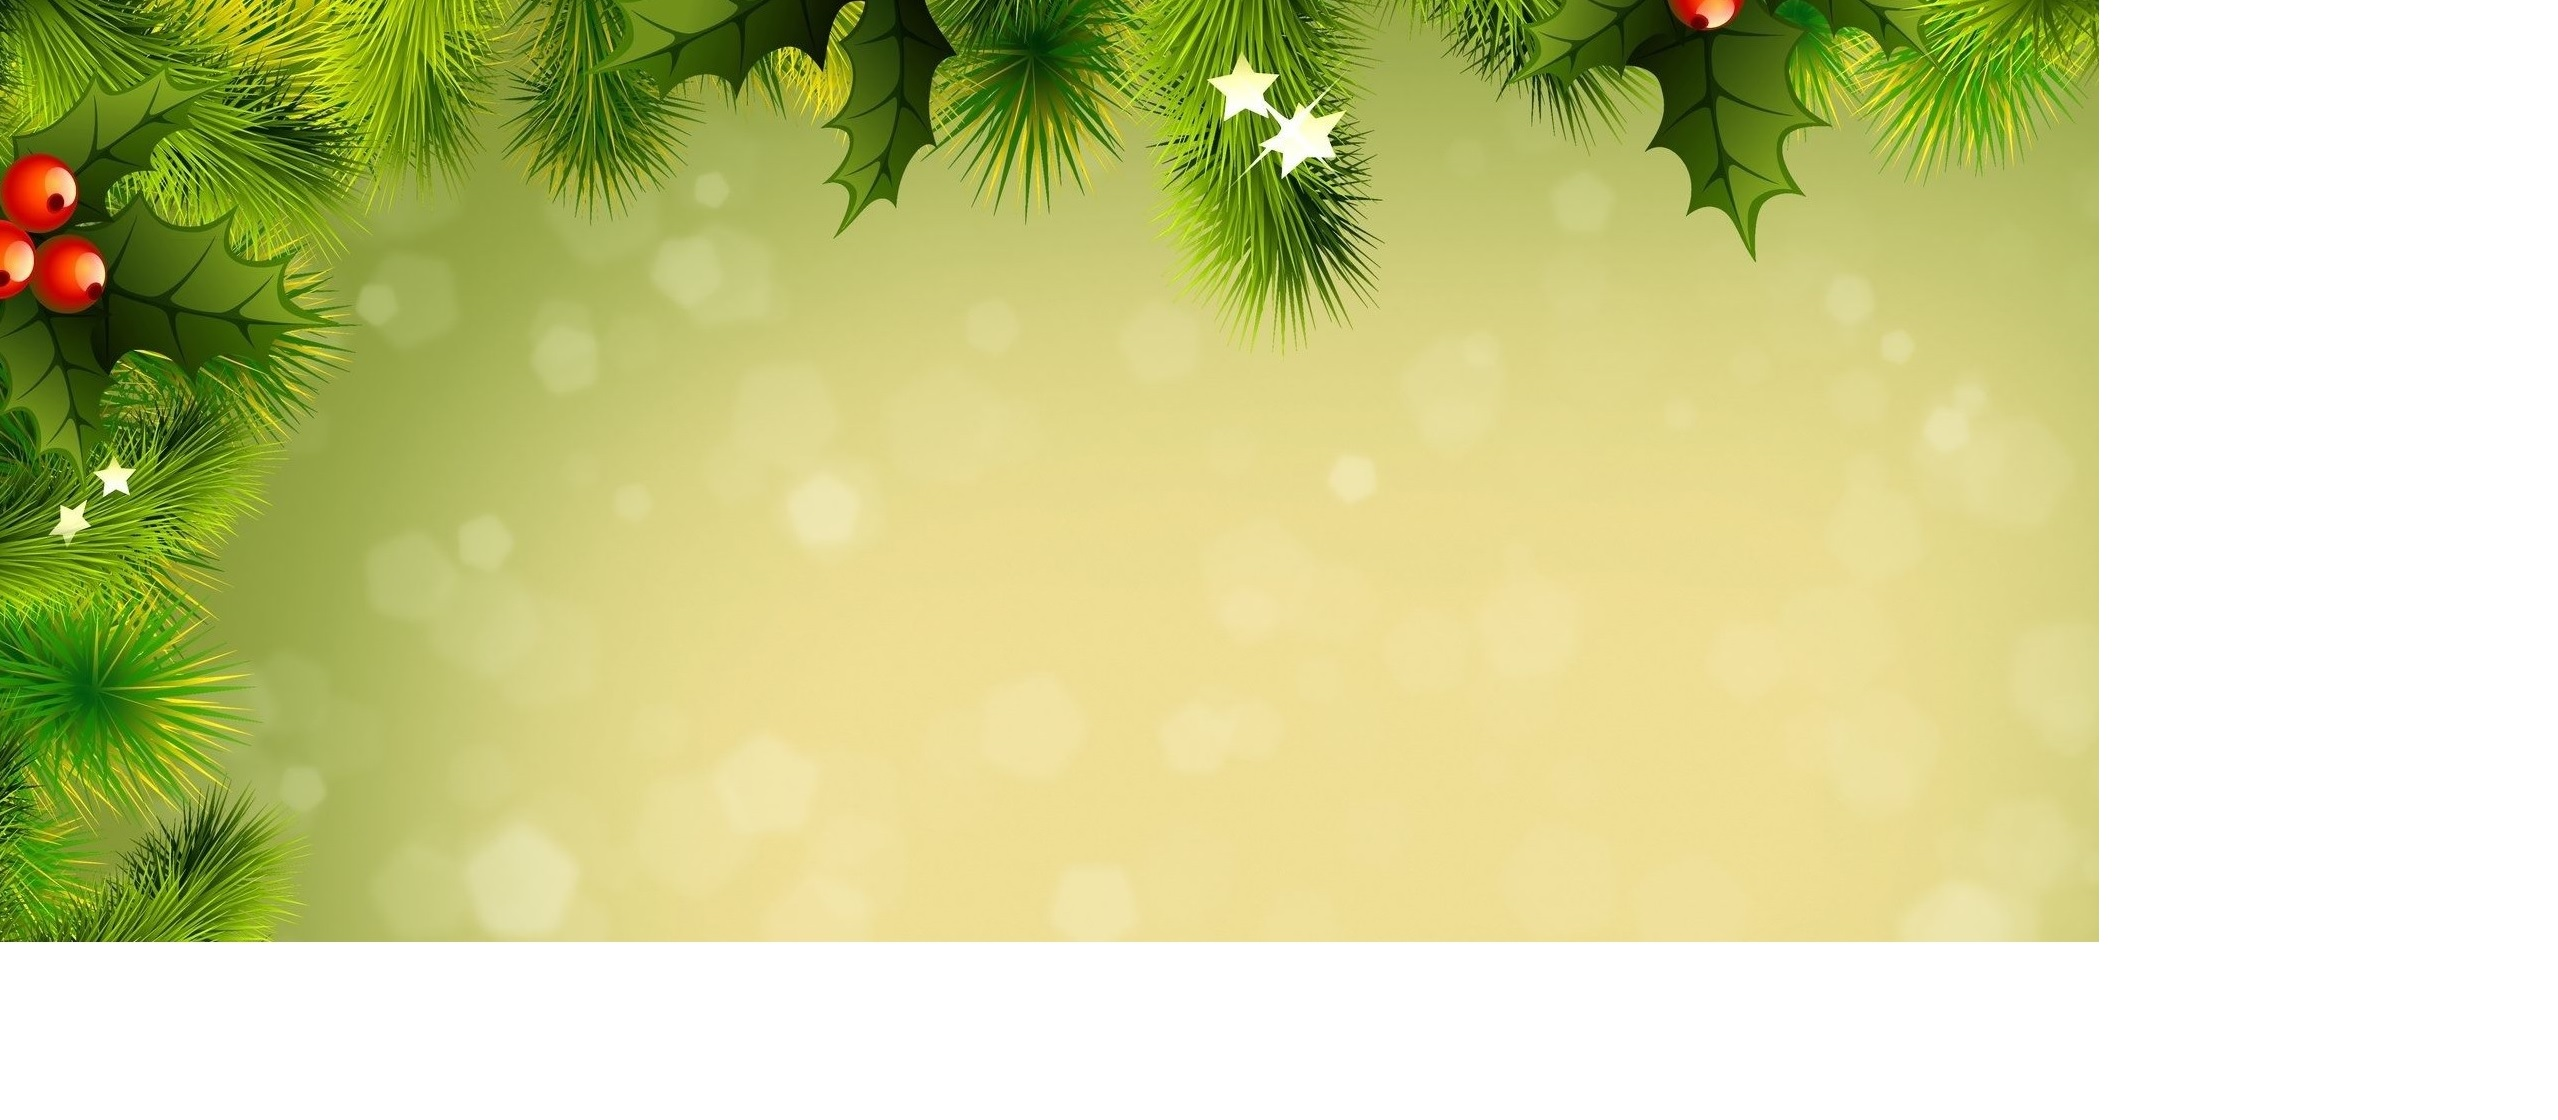
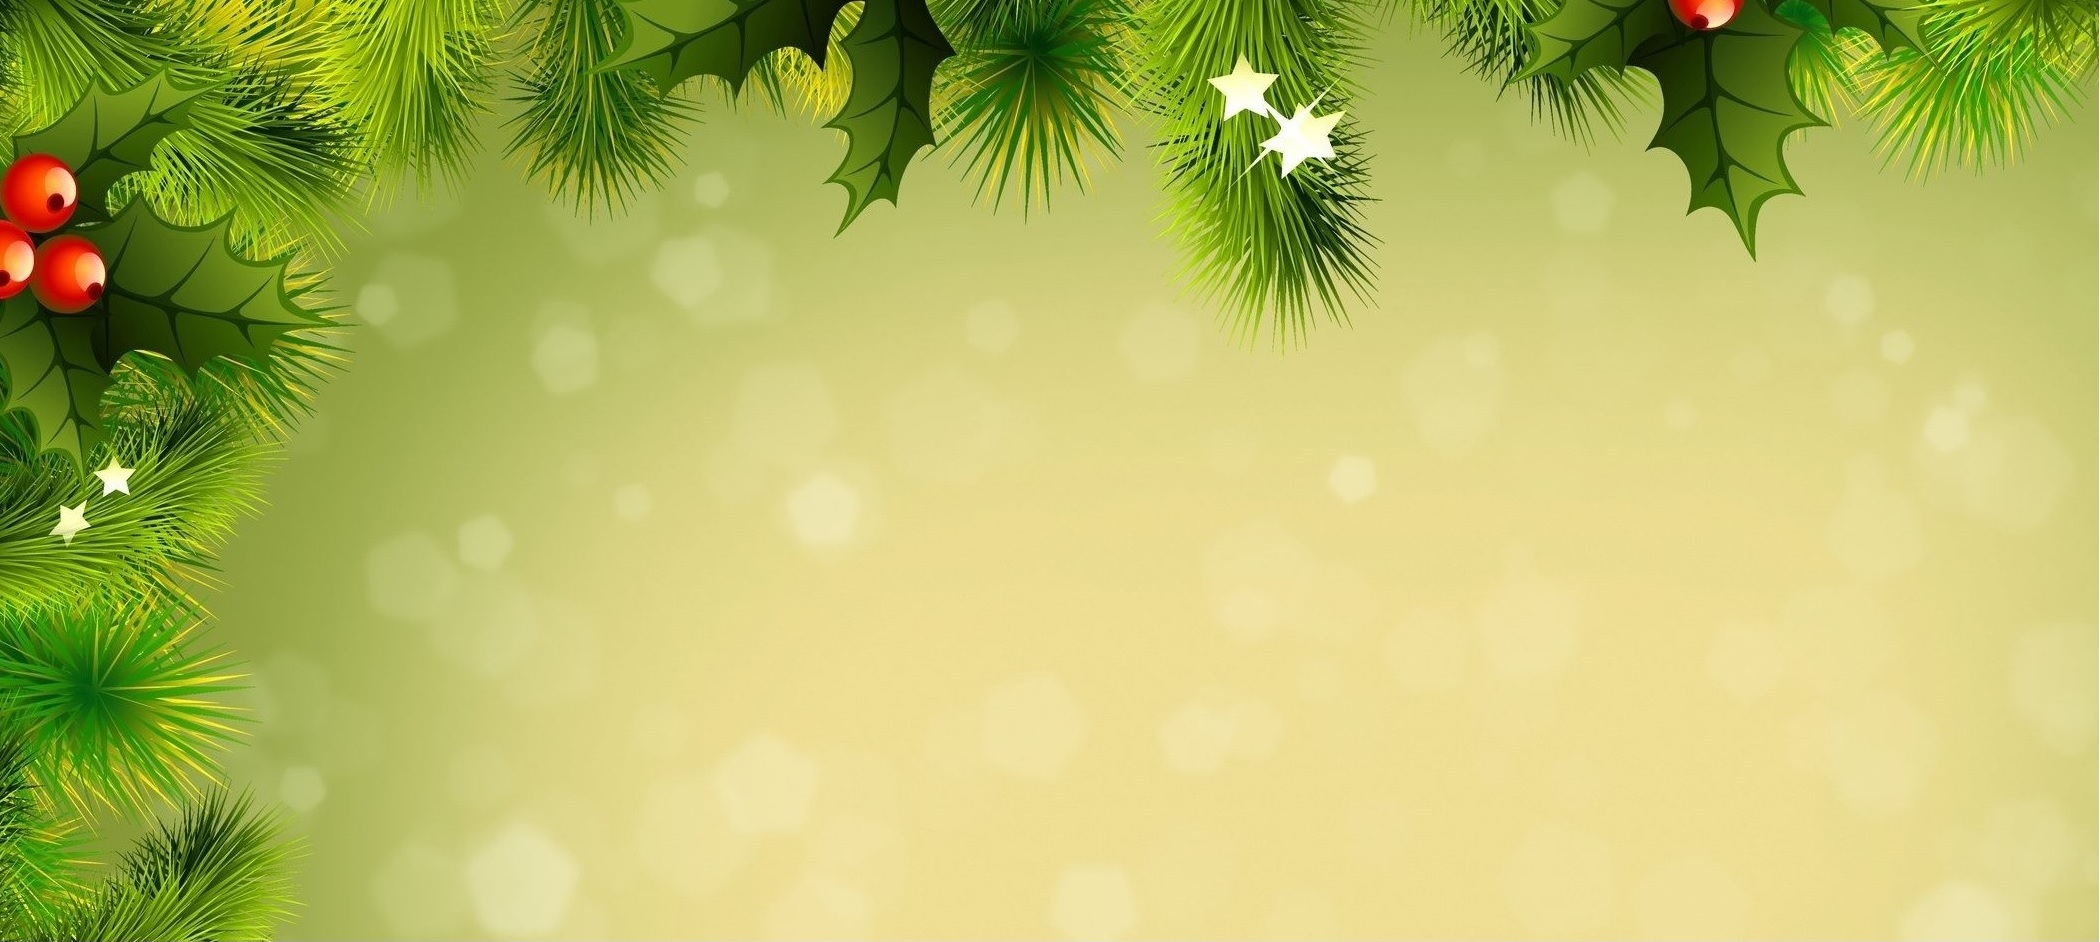
nagy és kisbetű

diff --git a/Script/css/main.css b/Script/css/main.css
@@ -56,7 +56,7 @@ html {
 #rowB{
 	display: grid;
 	padding: 110px;
-	//background-image: url('/css/images/disz.jpg'); 
+	background-image: url('/css/images/DISZ.jpg'); 
 	grid-template-columns: 400px 610px 650px; 
 	grid-gap: 40px;	
 }
